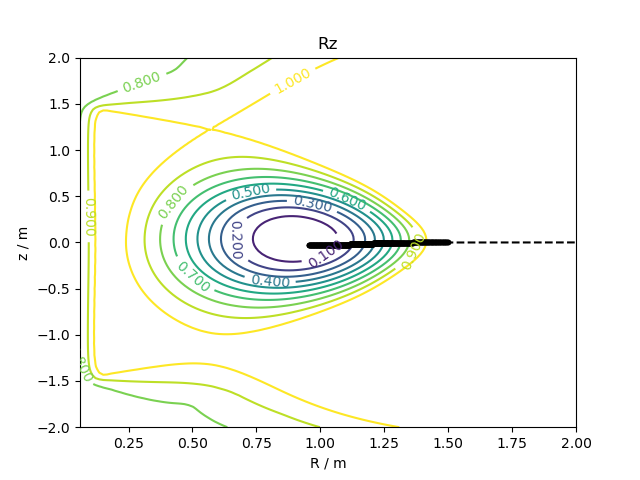
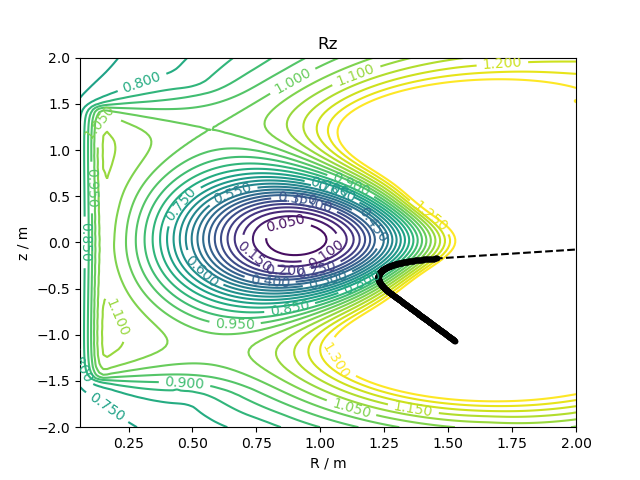
Minor bugfix
Fixed typos (which had previously broken the code) in the calculation of BCs for Psi

diff --git a/Scotty_beam_me_up.py b/Scotty_beam_me_up.py
@@ -360,7 +360,7 @@ def beam_me_up(tau_step,
                                             launch_angular_frequency, mode_flag, delta_Z, 
                                             interp_poloidal_flux, interp_density_1D, interp_B_R, interp_B_T, interp_B_Z)
                 d_poloidal_flux_d_R_boundary = find_d_poloidal_flux_dR(initial_position[0], initial_position[2], delta_R, interp_poloidal_flux)
-                d_poloidal_flux_d_Z_boundary = find_d_poloidal_flux_dR(initial_position[0], initial_position[2], delta_R, interp_poloidal_flux)
+                d_poloidal_flux_d_Z_boundary = find_d_poloidal_flux_dZ(initial_position[0], initial_position[2], delta_R, interp_poloidal_flux)
                 
                 Psi_3D_lab_initial = find_Psi_3D_plasma(Psi_3D_lab_entry,
                                                         dH_dKR_initial, dH_dKzeta_initial, dH_dKZ_initial,
@@ -377,7 +377,7 @@ def beam_me_up(tau_step,
             initial_position   = launch_position            
             
             distance_from_launch_to_entry=None
-            Psi_3D_lab_entry_cartersian = np.full_like(Psi_3D_lab_launch,fill_value=None)
+            Psi_3D_lab_entry_cartersian = np.full_like(Psi_3D_lab_launch,fill_value=np.nan)
             
 
     else:
@@ -1078,7 +1078,7 @@ def beam_me_up(tau_step,
         plt.xlabel('R / m') # x-direction
         plt.ylabel('z / m')
     
-        contour_levels = np.linspace(0,1,11)
+        contour_levels = np.linspace(0,1.3,27)
         CS = plt.contour(data_R_coord, data_Z_coord, np.transpose(data_poloidal_flux_grid), contour_levels)
         plt.clabel(CS, inline=1, fontsize=10) # Labels the flux surfaces
         plt.plot(

diff --git a/Scotty_fun_general.py b/Scotty_fun_general.py
@@ -411,11 +411,19 @@ def find_Psi_3D_plasma(Psi_vacuum_3D,
             Psi_v_zeta_zeta, 
             Psi_v_R_R * d_poloidal_flux_d_Z**2 - 2 * Psi_v_R_Z * d_poloidal_flux_d_R * d_poloidal_flux_d_Z + Psi_v_Z_Z * d_poloidal_flux_d_R **2, 
             - Psi_v_R_zeta * d_poloidal_flux_d_Z + Psi_v_zeta_Z * d_poloidal_flux_d_R, 
-            dH_dR, 
-            dH_dZ, 
+            -dH_dR, 
+            -dH_dZ, 
             0          
            ] )
-    
+    print(interface_matrix)
+    print(np.array([
+            Psi_v_zeta_zeta, 
+            Psi_v_R_R * d_poloidal_flux_d_Z**2 - 2 * Psi_v_R_Z * d_poloidal_flux_d_R * d_poloidal_flux_d_Z + Psi_v_Z_Z * d_poloidal_flux_d_R **2, 
+            - Psi_v_R_zeta * d_poloidal_flux_d_Z + Psi_v_zeta_Z * d_poloidal_flux_d_R, 
+            -dH_dR, 
+            -dH_dZ, 
+            0          
+           ] ))
     Psi_3D_plasma = np.zeros([3,3],dtype='complex128')
     Psi_3D_plasma[0,0] = Psi_p_R_R
     Psi_3D_plasma[1,1] = Psi_p_zeta_zeta

diff --git a/Scotty_main.py b/Scotty_main.py
@@ -18,7 +18,7 @@ tau_step = 1.0
 numberOfTauPoints = 751
 saveInterval = 1  # saves every n time steps
 
-poloidal_launch_angle_Torbeam = 0.0 # deg
+poloidal_launch_angle_Torbeam = 10.0 # deg
 toroidal_launch_angle_Torbeam = 0.0 # deg
 #toroidal_launch_angle_Torbeam_scan = np.linspace(-3,-8,51)
 
